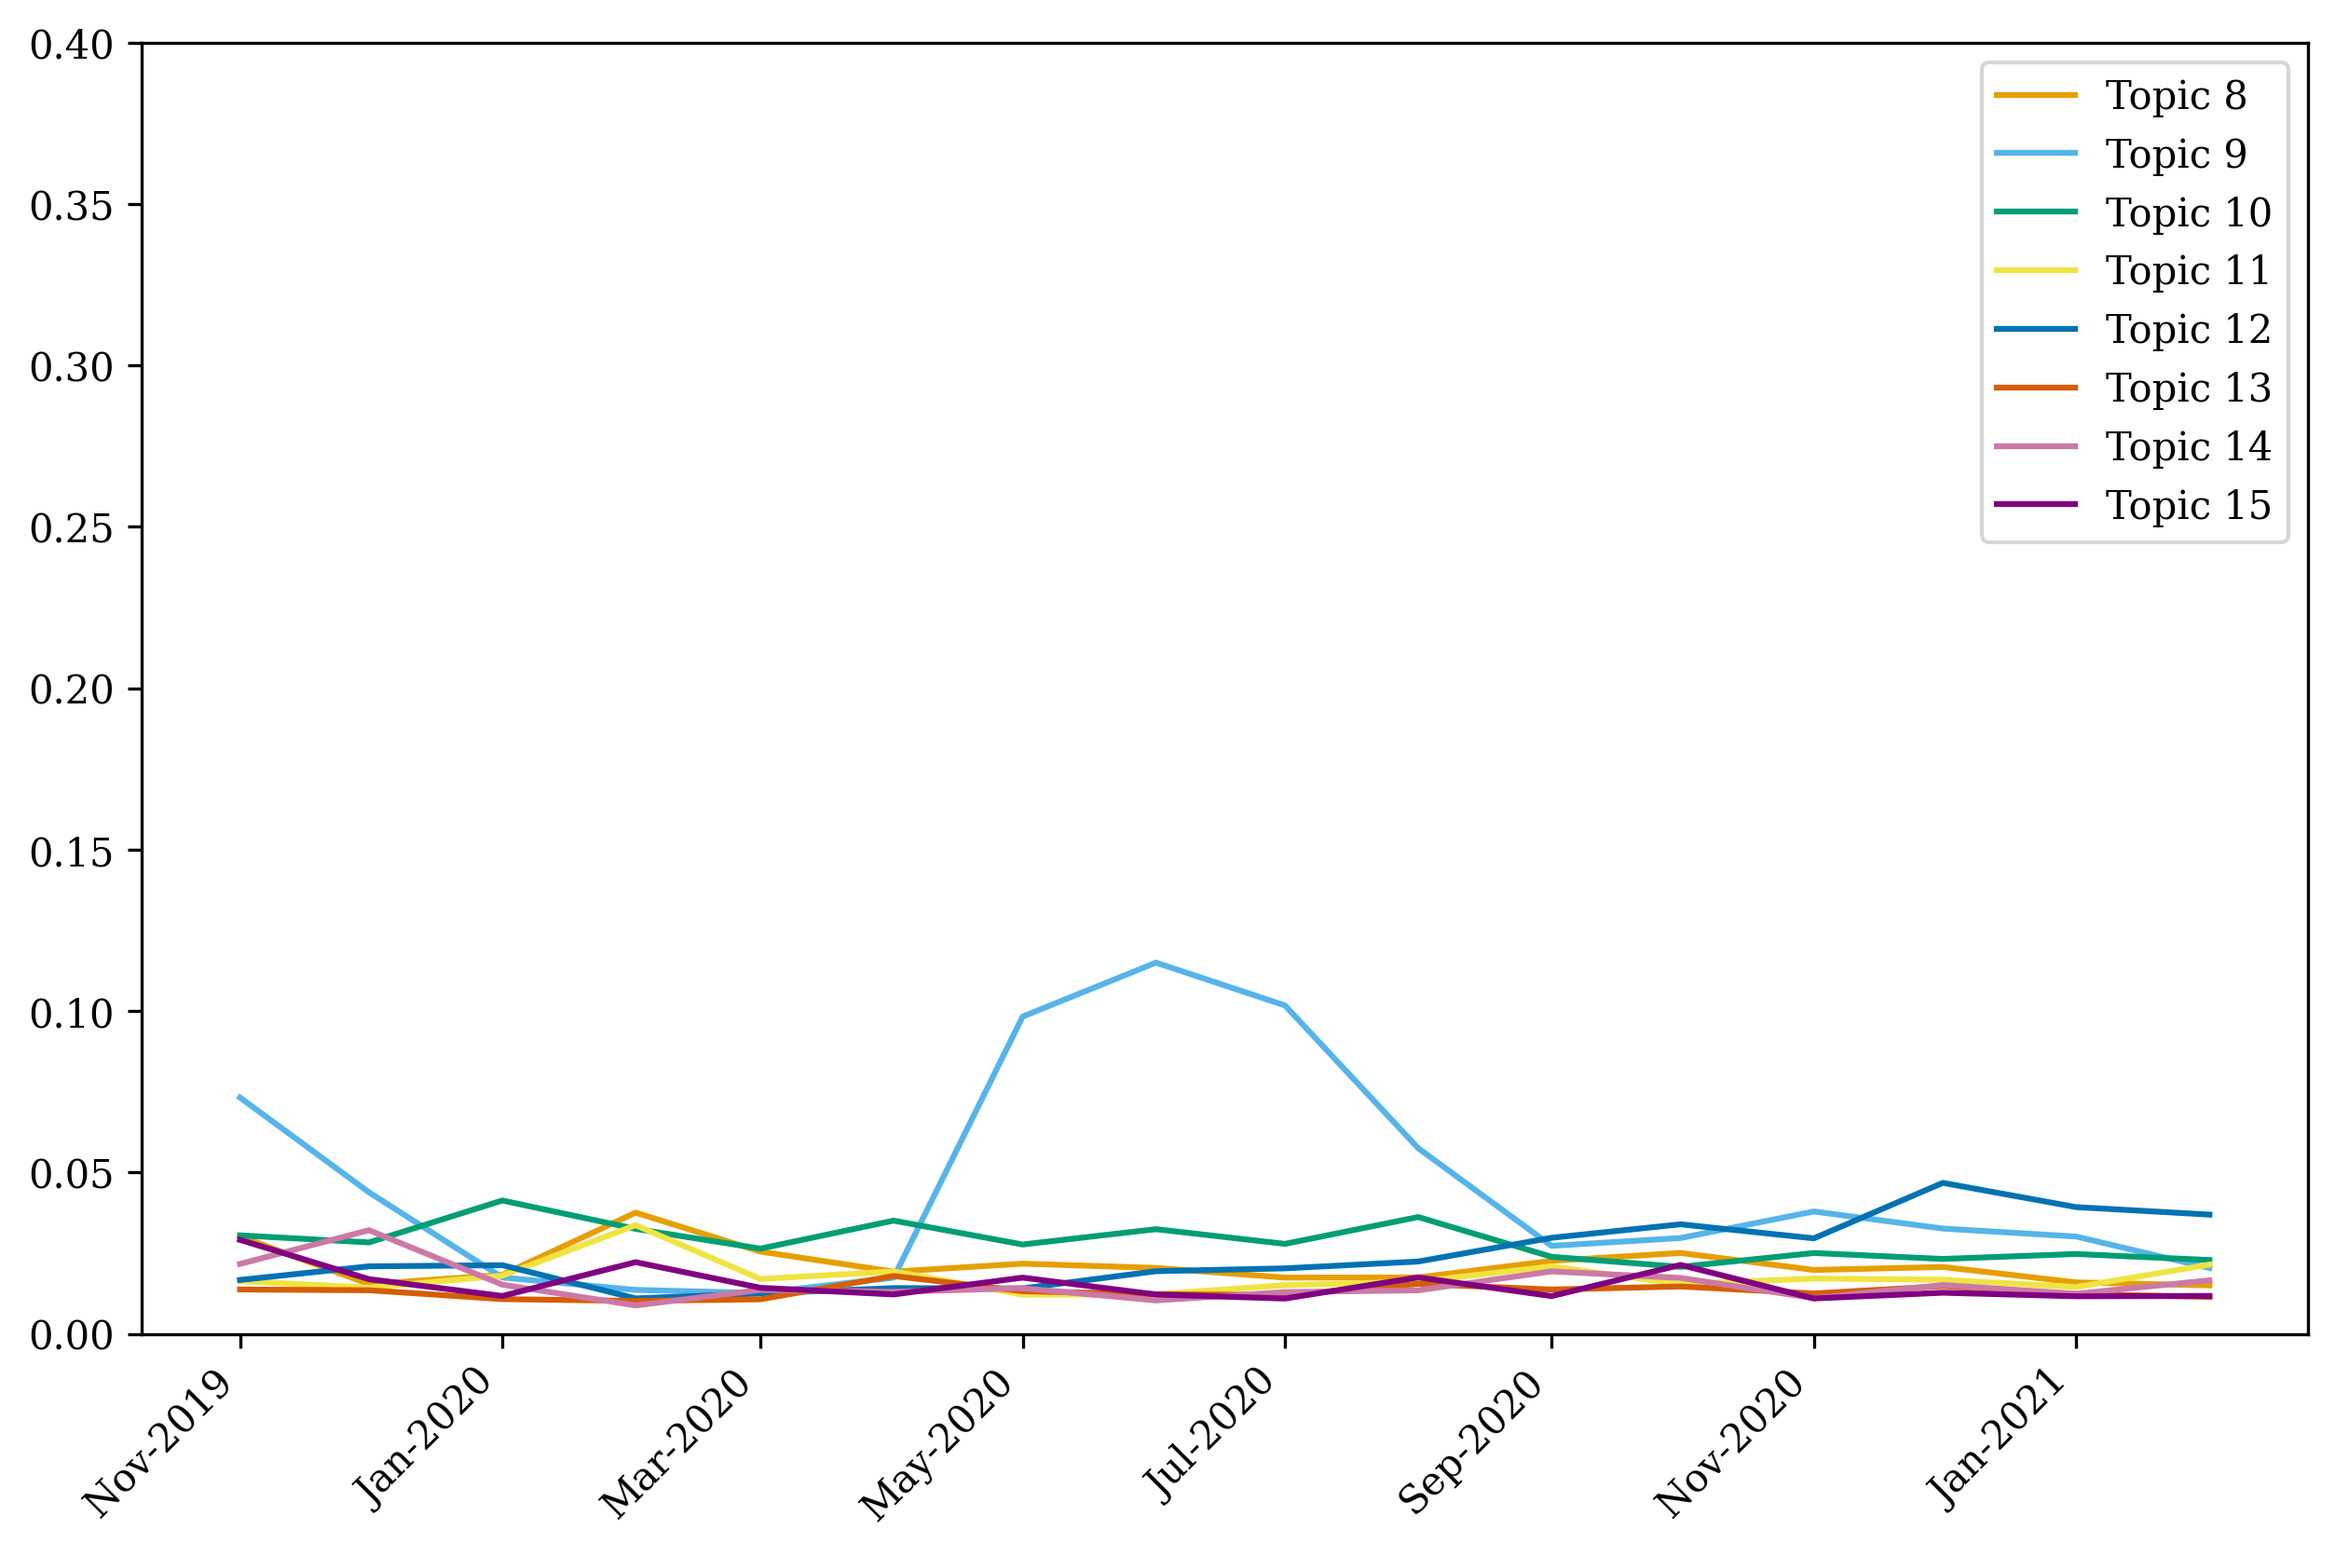
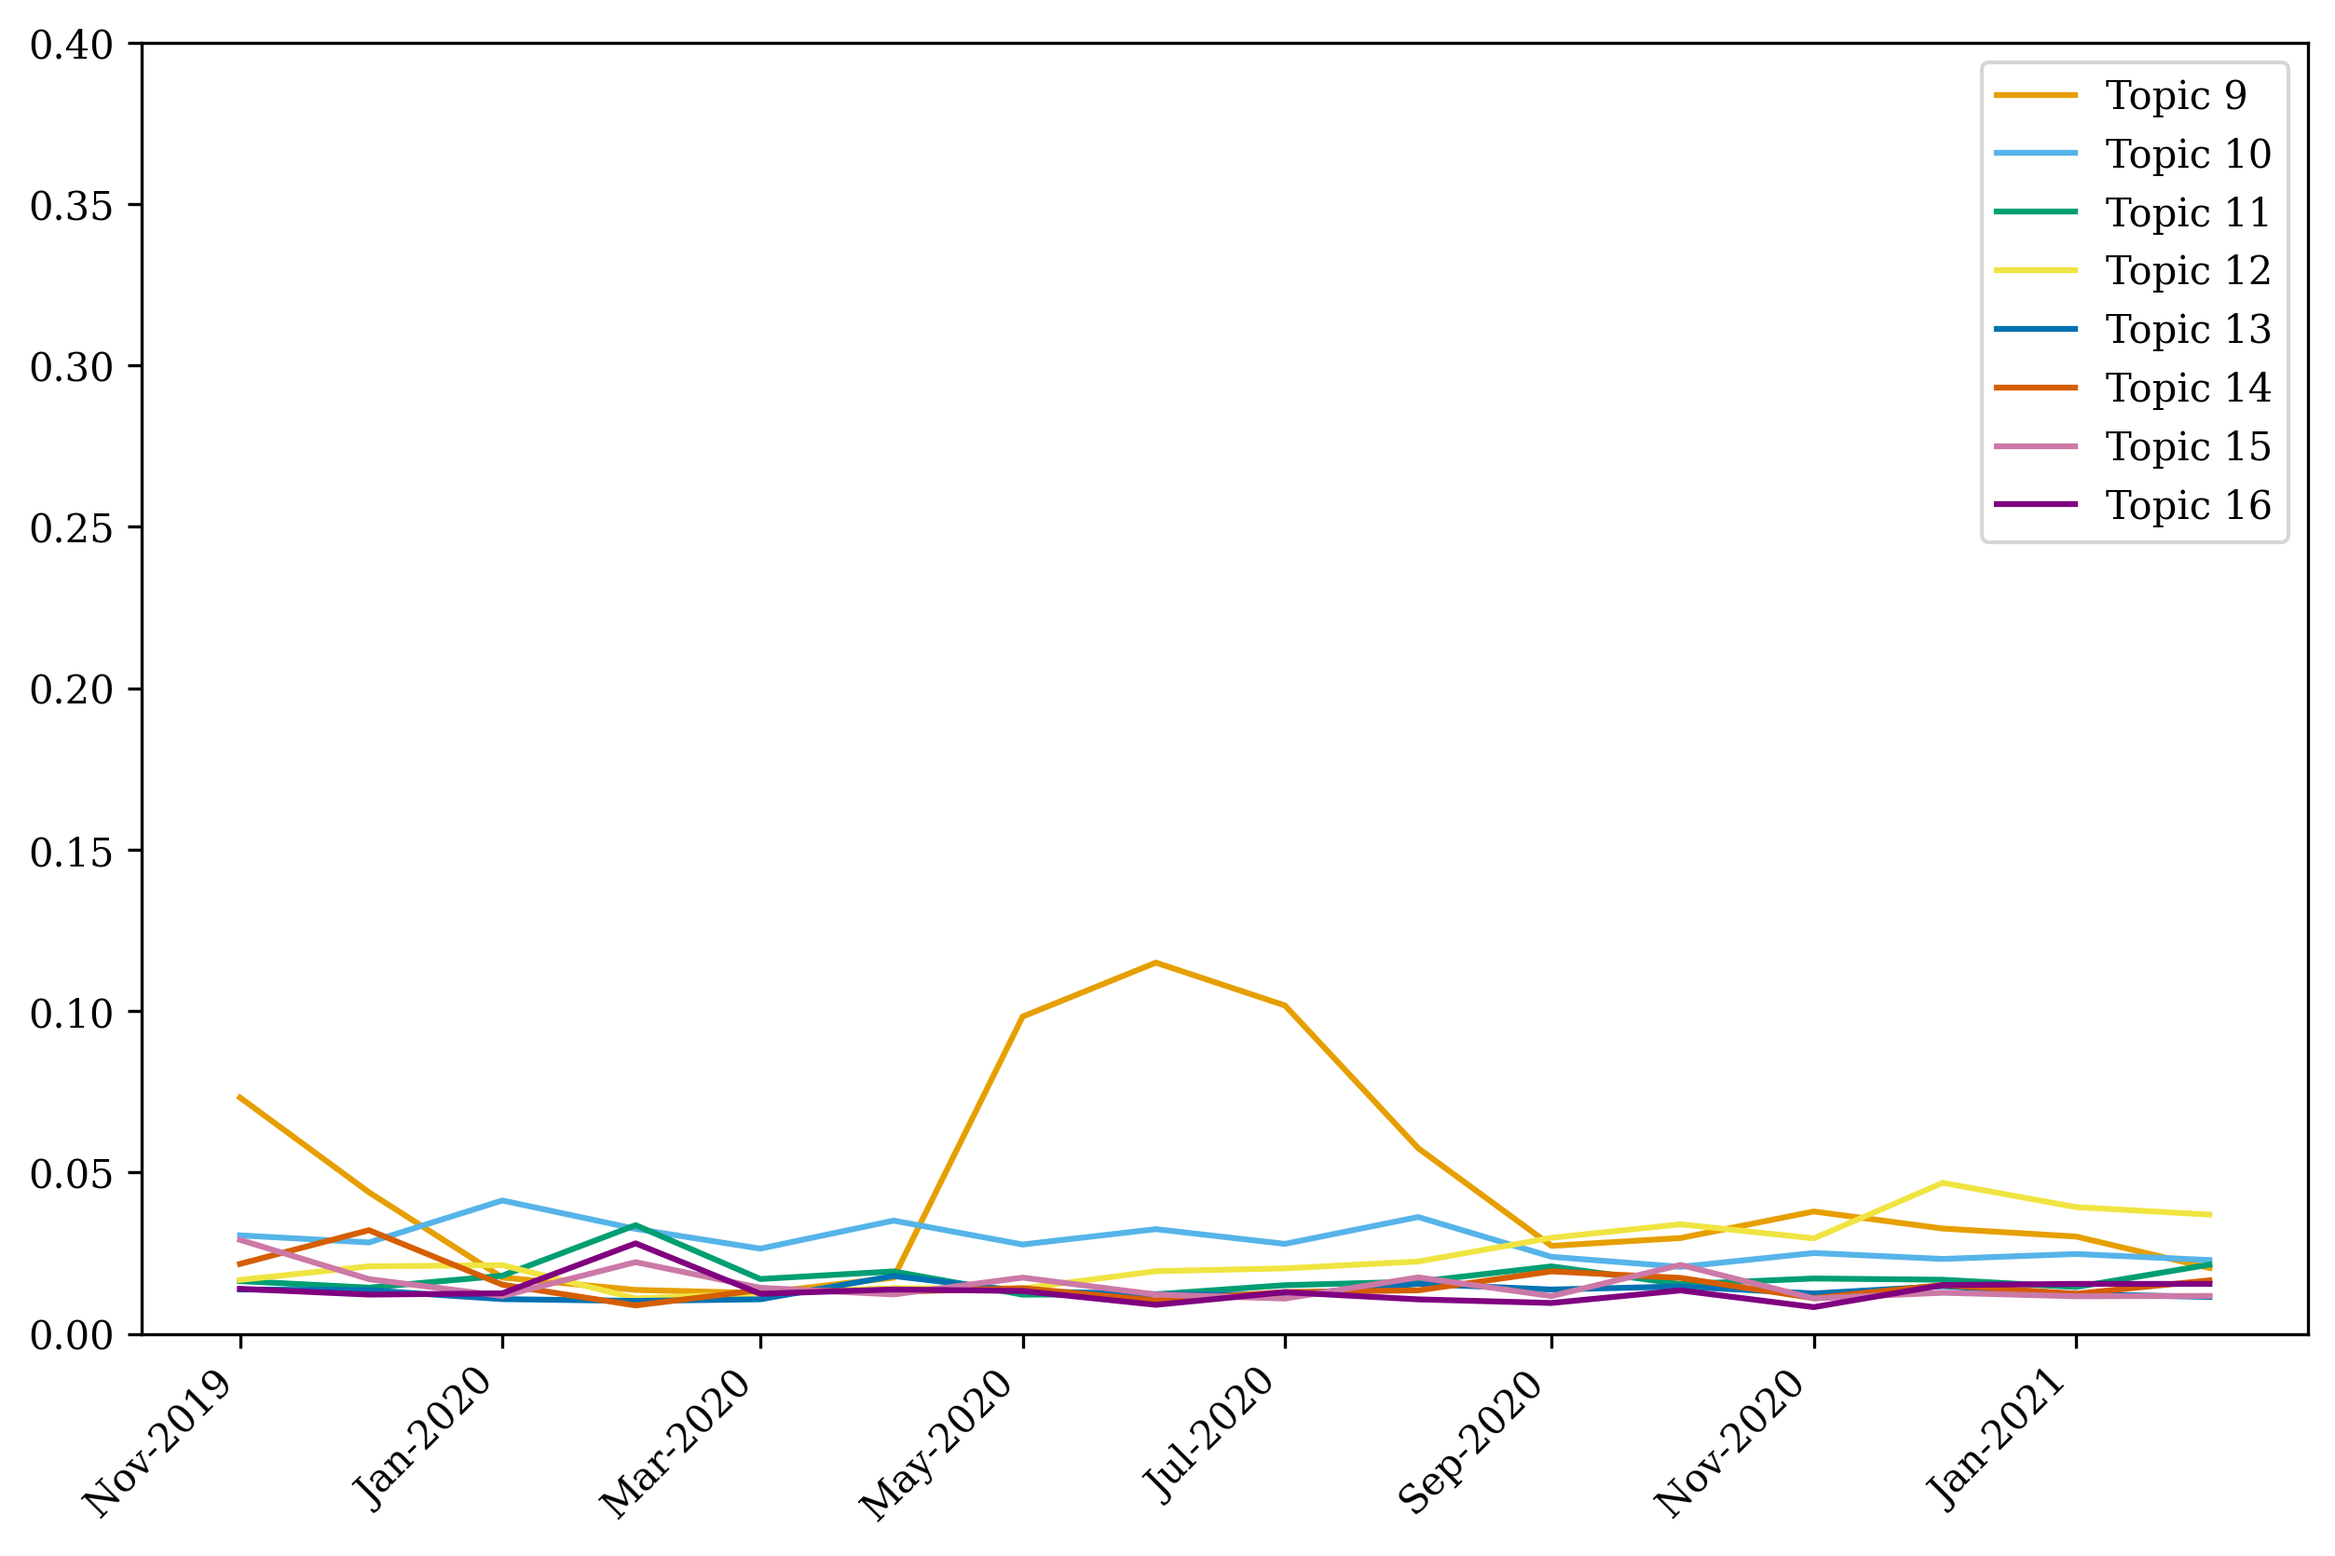
fix "topic 0"

diff --git a/topic_model/src/visualise_topics.py b/topic_model/src/visualise_topics.py
@@ -37,11 +37,11 @@ def main():
 
         # plot 8 topics at a time
         for i in range(n_plots):
-            plot_subset(top_over_time, range(8*i, 8*(i+1)), 10, str(fig_path / f"topics_over_time_{period}_{i}.png"))
+            plot_subset(top_over_time, range(8*i+1, 8*(i+1)+1), 10, str(fig_path / f"topics_over_time_{period}_{i}.png"))
 
         # plot the remaining topics
         if n_topics % 8 != 0:
-            plot_subset(top_over_time, range(8*n_plots, n_topics), 10, str(fig_path / f"topics_over_time_{period}_{n_plots}.png"))
+            plot_subset(top_over_time, range(8*n_plots+1, n_topics), 10, str(fig_path / f"topics_over_time_{period}_{n_plots}.png"))
 
 if __name__ == '__main__':
     main()
